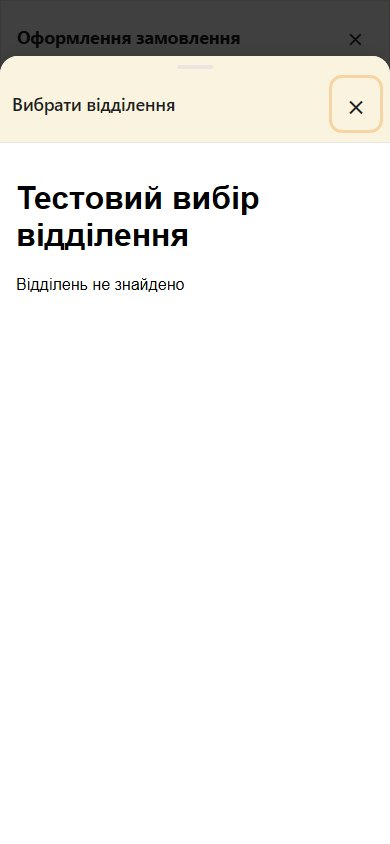
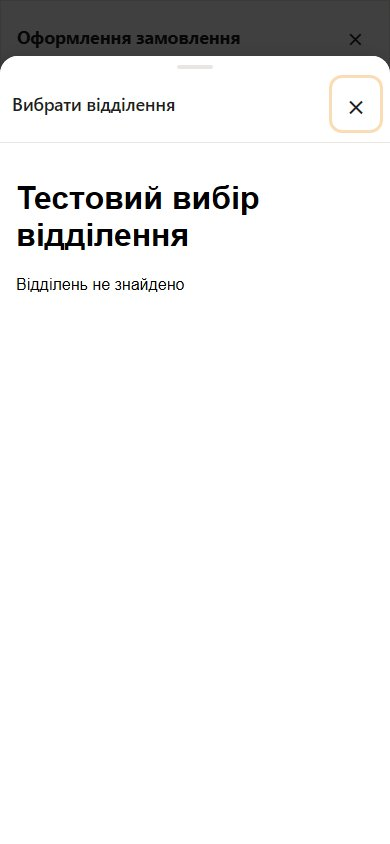
style: make delivery picker header white ZVY-68 [skip netlify]

Changed region(s): [[0.0, 0.0616, 1.0, 0.1848]]

diff --git a/src/components/organisms/NovaPoshtaWidget.module.css b/src/components/organisms/NovaPoshtaWidget.module.css
@@ -184,7 +184,7 @@
   }
 
   .header {
-    background: var(--cream);
+    background: var(--surface);
     padding: 24px 12px 14px;
     touch-action: none;
   }

diff --git a/docs/delivery-picker/REPORT.md b/docs/delivery-picker/REPORT.md
@@ -6,7 +6,7 @@
 
 The mobile picker previously hid its entire host header below 768px, including Close. A pending or failed provider could therefore leave a blank screen with no visible host exit. The owner requested reuse of the cart/excerpt sheet in the implementation conversation on 2026-10-08.
 
-At widths up to 640px the picker now uses their existing `useSheetDismiss` hook and matching sheet layout: a 56px backdrop area, rounded top corners, cream header, drag handle, 44px minimum Close target, downward header swipe, backdrop dismissal, and reduced-motion behavior. The iframe occupies the remaining height below the header. Header gestures do not attach to provider content. Between 641px and 767px the existing full-screen presentation retains a compact visible header. Desktop keeps its centered 80% dialog and visible exit.
+At widths up to 640px the picker now uses their existing `useSheetDismiss` hook and matching sheet layout: a 56px backdrop area, rounded top corners, white header, drag handle, 44px minimum Close target, downward header swipe, backdrop dismissal, and reduced-motion behavior. The owner requested the white header, matching the cart, in a subsequent review on 2026-10-08. The iframe occupies the remaining height below the header. Header gestures do not attach to provider content. Between 641px and 767px the existing full-screen presentation retains a compact visible header. Desktop keeps its centered 80% dialog and visible exit.
 
 The picker inherits checkout's existing visual-viewport height variable. This supports the host layout when checkout updates its available height; it is not evidence that a real software keyboard or the live provider works correctly.
 
@@ -41,7 +41,7 @@ All 24 screenshots were visually inspected. Desktop layout remains visually cons
 
 ## Verification
 
-Lint, typecheck and deterministic fixture validation passed. The standard Playwright server setup successfully built and ran the production application. The final regression run passed **92 checks**, including **47 picker checks** with evidence capture enabled, checkout draft/order-note/money, purchase validation, accessibility, keyboard and cart/excerpt sheet behavior. Three picker screenshot tests are explicitly skipped in ordinary CI unless evidence capture is requested; the other 44 picker scenarios remain active.
+Lint, typecheck and deterministic fixture validation passed. The standard Playwright server setup successfully built and ran the production application. The implementation regression run passed **92 checks**, including **47 picker checks** with evidence capture enabled, checkout draft/order-note/money, purchase validation, accessibility, keyboard and cart/excerpt sheet behavior. Following the owner's white-header adjustment, lint, typecheck, the production build and all **47 picker checks** passed again; all eight mobile after screenshots were refreshed and visually inspected. Three picker screenshot tests are explicitly skipped in ordinary CI unless evidence capture is requested; the other 44 picker scenarios remain active.
 
 The initial accessibility scan identified heading-order and duplicate-main-landmark problems in the controlled provider fixture; correcting its semantics resolved them with no additional axe exceptions. An initial concurrent lint attempt hit Playwright's test-output-directory cleanup; the sequential rerun passed. The application diff was self-reviewed and `git diff --check` passed.
 
